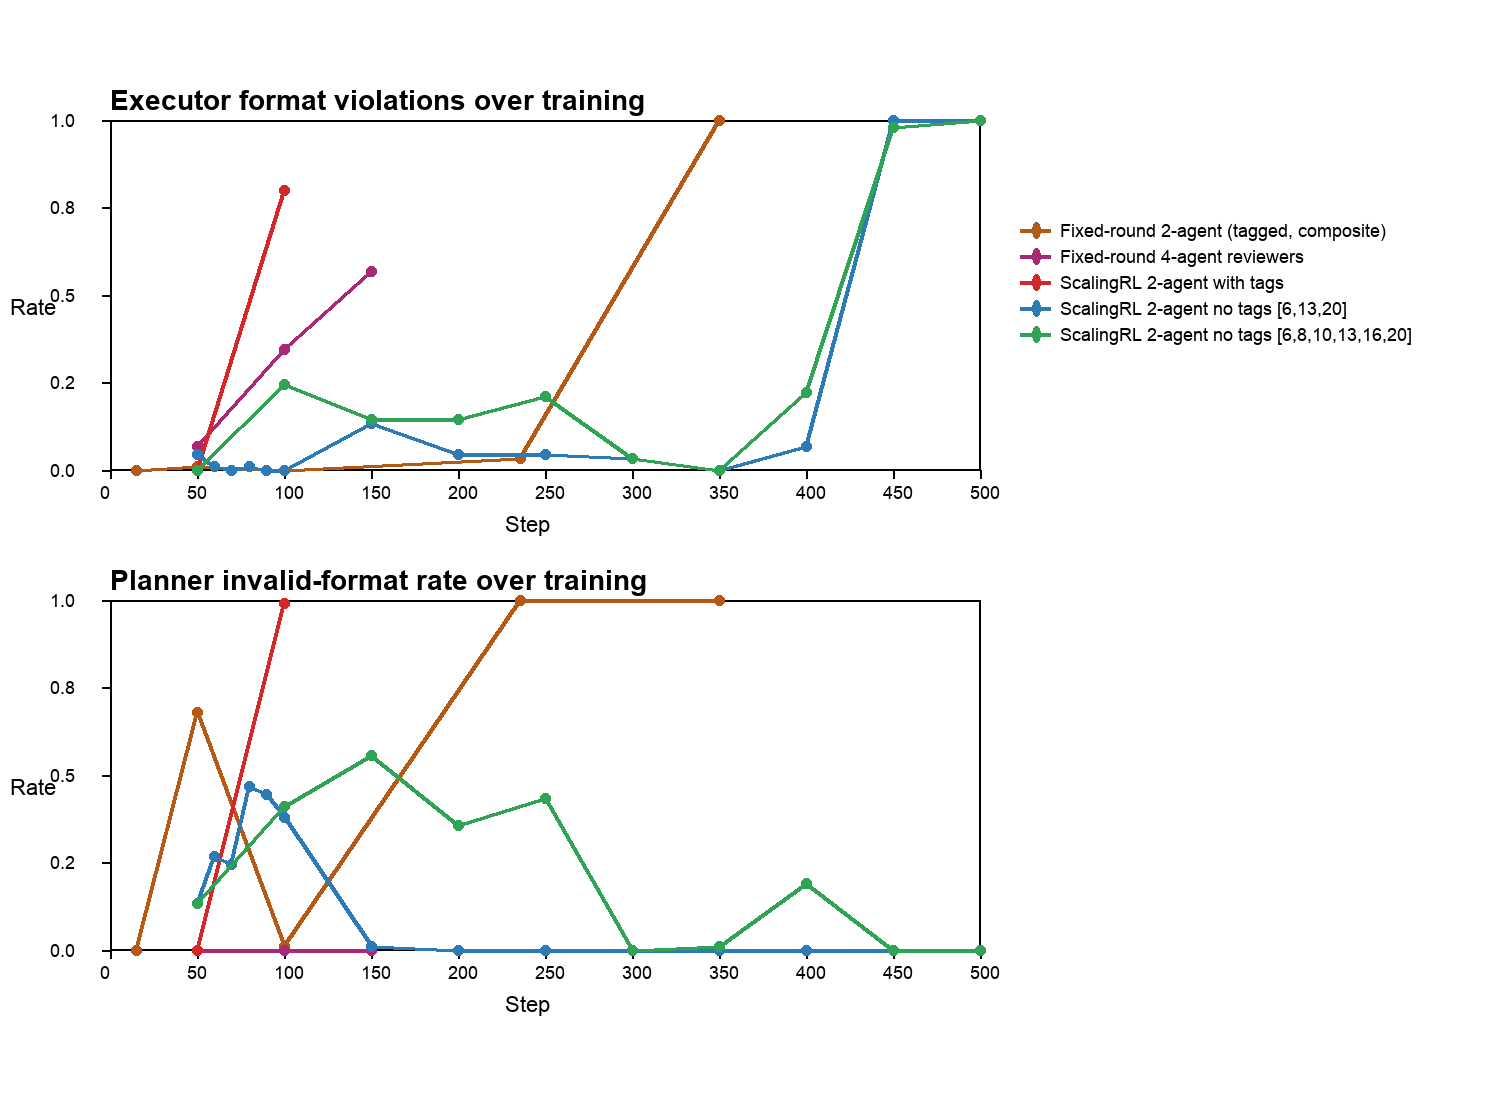
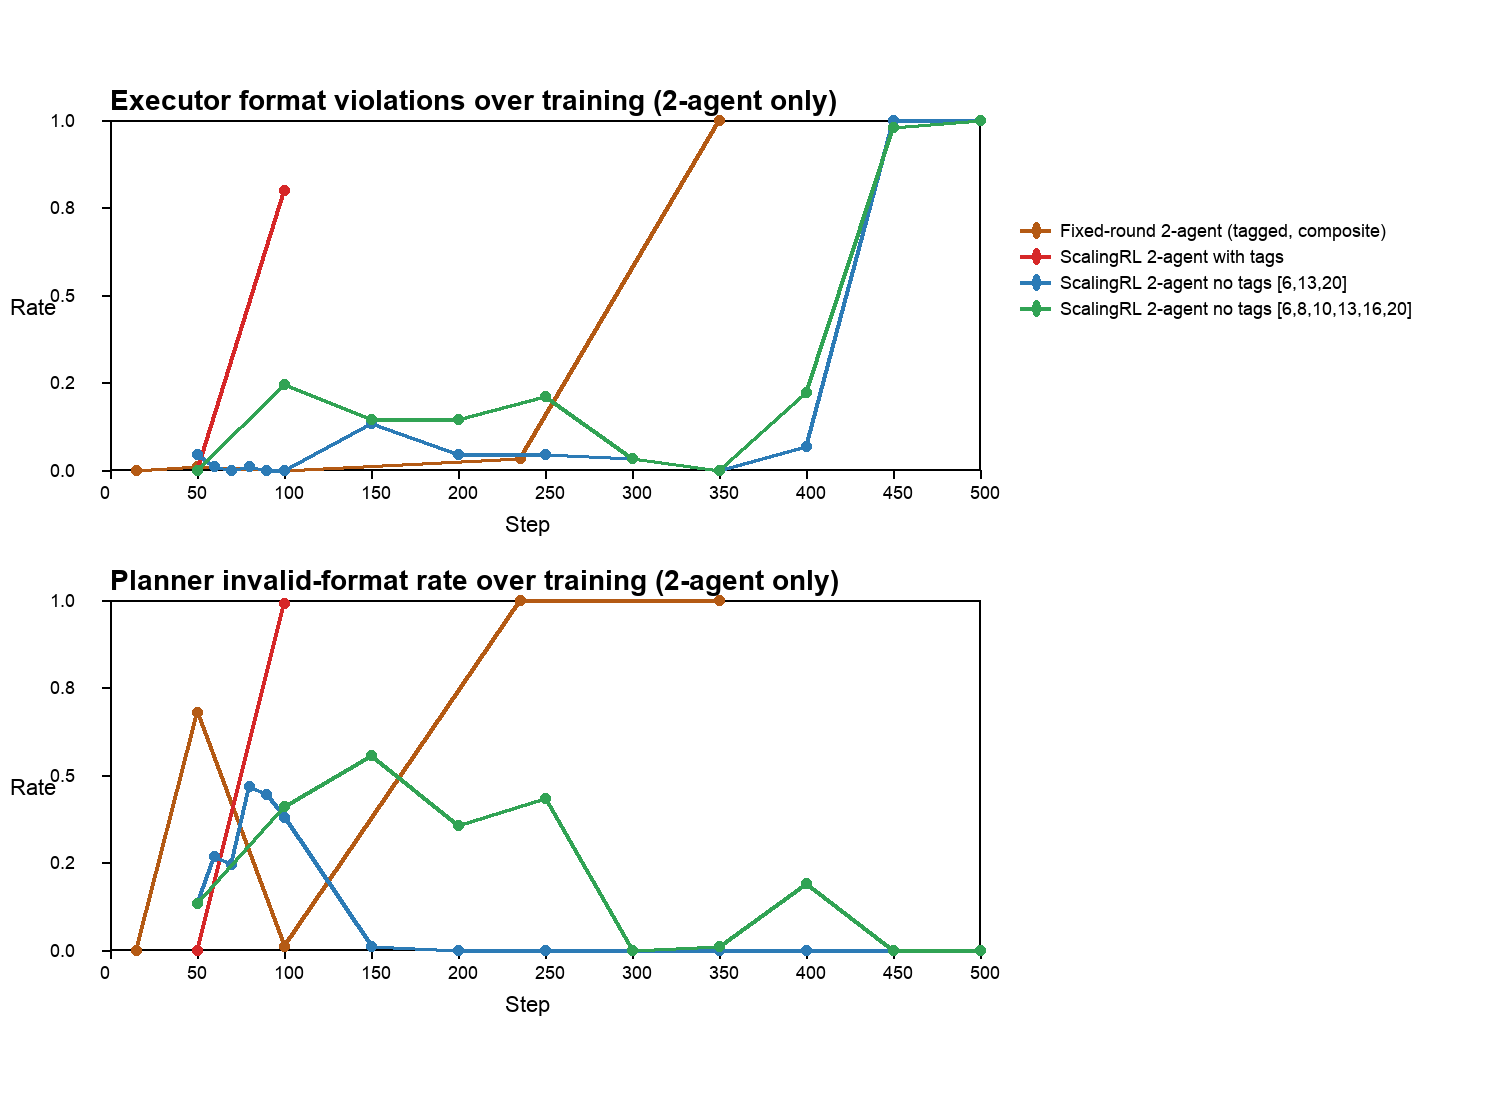
updated plots to omit 4 agent training

diff --git a/reports/2026-03-30_multi_agent_collapse_paper_handoff/build_handoff_artifacts.py b/reports/2026-03-30_multi_agent_collapse_paper_handoff/build_handoff_artifacts.py
@@ -353,6 +353,13 @@ LABELS = {
     'plain_split_scaling_2agent': 'ScalingRL 2-agent no tags [6,13,20]',
     'dense_scaling_2agent': 'ScalingRL 2-agent no tags [6,8,10,13,16,20]',
 }
+TWO_AGENT_FAMILIES = [
+    'fixed_round_2agent_tagged',
+    'tagged_scaling_2agent',
+    'plain_split_scaling_2agent',
+    'dense_scaling_2agent',
+]
+MISSING_FIXED_NO_TAG_FAMILY = 'fixed_round_2agent_no_tags'
 
 try:
     FONT = ImageFont.truetype('/System/Library/Fonts/Supplemental/Arial.ttf', 22)
@@ -412,38 +419,38 @@ def draw_series(draw, pts, color, x0, y0, x1, y1, ymin, ymax, width=4):
     for x, y, s, v in mapped:
         draw.ellipse((x-5, y-5, x+5, y+5), fill=color)
 
-# Figure 1: Pass@1 primary comparison
+# Figure 1: Pass@1 primary comparison (2-agent only)
 img = Image.new('RGB', (1500, 900), 'white')
 d = ImageDraw.Draw(img)
 plot = (110, 120, 980, 760)
 xt = [(scale_x(v, plot[0], plot[2]), v) for v in [0,50,100,150,200,250,300,350,400,450,500]]
 yt = [(scale_y(v, 0, 0.9, plot[1], plot[3]), f'{v:.1f}') for v in [0.0,0.2,0.4,0.6,0.8]]
-draw_axes(d, *plot, xt, yt, 'Pass@1', 'Pass@1 across multi-agent regimes', 'Baseline single-agent line included for reference')
+draw_axes(d, *plot, xt, yt, 'Pass@1', 'Pass@1 across 2-agent regimes', '4-agent reviewer runs intentionally omitted; no fixed-round 2-agent no-tag run was found locally')
 # baseline
 base_y = scale_y(single_agent_baseline['Pass@1'], 0, 0.9, plot[1], plot[3])
 d.line((plot[0], base_y, plot[2], base_y), fill=COLORS['baseline'], width=3)
 d.text((plot[2]-120, base_y-20), 'single-agent baseline', fill=COLORS['baseline'], font=SMALL)
-for fam in ['fixed_round_2agent_tagged','fixed_round_4agent_reviewers','tagged_scaling_2agent','plain_split_scaling_2agent','dense_scaling_2agent']:
+for fam in TWO_AGENT_FAMILIES:
     draw_series(d, series(fam, 'Pass@1'), COLORS[fam], *plot, 0, 0.9)
-draw_legend(d, [(LABELS[f], COLORS[f]) for f in ['fixed_round_2agent_tagged','fixed_round_4agent_reviewers','tagged_scaling_2agent','plain_split_scaling_2agent','dense_scaling_2agent']], 1020, 160)
+draw_legend(d, [(LABELS[f], COLORS[f]) for f in TWO_AGENT_FAMILIES], 1020, 160)
 img.save(FIG / 'fig_pass1_comparison.png')
 
-# Figure 2: Failure comparison, two panels
+# Figure 2: Failure comparison, two panels (2-agent only)
 img = Image.new('RGB', (1500, 1100), 'white')
 d = ImageDraw.Draw(img)
 top = (110, 120, 980, 470)
 bot = (110, 600, 980, 950)
 xt_top = [(scale_x(v, top[0], top[2]), v) for v in [0,50,100,150,200,250,300,350,400,450,500]]
 yt01_top = [(scale_y(v, 0, 1.0, top[1], top[3]), f'{v:.1f}') for v in [0,0.25,0.5,0.75,1.0]]
-draw_axes(d, *top, xt_top, yt01_top, 'Rate', 'Executor format violations over training')
-for fam in ['fixed_round_2agent_tagged','fixed_round_4agent_reviewers','tagged_scaling_2agent','plain_split_scaling_2agent','dense_scaling_2agent']:
+draw_axes(d, *top, xt_top, yt01_top, 'Rate', 'Executor format violations over training (2-agent only)')
+for fam in TWO_AGENT_FAMILIES:
     draw_series(d, series(fam, 'ExecutorNativeFormatViolations'), COLORS[fam], *top, 0, 1.0)
 xt_bot = [(scale_x(v, bot[0], bot[2]), v) for v in [0,50,100,150,200,250,300,350,400,450,500]]
 yt01_bot = [(scale_y(v, 0, 1.0, bot[1], bot[3]), f'{v:.1f}') for v in [0,0.25,0.5,0.75,1.0]]
-draw_axes(d, *bot, xt_bot, yt01_bot, 'Rate', 'Planner invalid-format rate over training')
-for fam in ['fixed_round_2agent_tagged','fixed_round_4agent_reviewers','tagged_scaling_2agent','plain_split_scaling_2agent','dense_scaling_2agent']:
+draw_axes(d, *bot, xt_bot, yt01_bot, 'Rate', 'Planner invalid-format rate over training (2-agent only)')
+for fam in TWO_AGENT_FAMILIES:
     draw_series(d, series(fam, 'PlannerInvalidFormatRate'), COLORS[fam], *bot, 0, 1.0)
-draw_legend(d, [(LABELS[f], COLORS[f]) for f in ['fixed_round_2agent_tagged','fixed_round_4agent_reviewers','tagged_scaling_2agent','plain_split_scaling_2agent','dense_scaling_2agent']], 1020, 220)
+draw_legend(d, [(LABELS[f], COLORS[f]) for f in TWO_AGENT_FAMILIES], 1020, 220)
 img.save(FIG / 'fig_failure_comparison.png')
 
 # Figure 3: Dense500 detail
@@ -475,7 +482,7 @@ d = ImageDraw.Draw(img)
 plot = (110, 120, 980, 760)
 xt = [(scale_x(v, plot[0], plot[2]), v) for v in [0,50,100,150,200,250,300,350,400,450,500]]
 yt = [(scale_y(v, 0, 1.0, plot[1], plot[3]), f'{v:.1f}') for v in [0,0.25,0.5,0.75,1.0]]
-draw_axes(d, *plot, xt, yt, 'Pass@1', 'Tagged prompts vs no-tag prompts under ScalingRL')
+draw_axes(d, *plot, xt, yt, 'Pass@1', 'Tagged prompts vs no-tag prompts under ScalingRL (2-agent only)')
 for fam in ['tagged_scaling_2agent','plain_split_scaling_2agent','dense_scaling_2agent']:
     draw_series(d, series(fam, 'Pass@1'), COLORS[fam], *plot, 0, 1.0)
 draw_legend(d, [(LABELS[f], COLORS[f]) for f in ['tagged_scaling_2agent','plain_split_scaling_2agent','dense_scaling_2agent']], 1020, 180)
@@ -518,16 +525,14 @@ with main_md.open('w') as f:
     f.write(f'- Existing plain-split ScalingRL report: `{PLAIN100_DIR / "DEEP_RESEARCH_ANALYSIS.md"}`\n')
     f.write(f'- Existing dense-curriculum report: `{DENSE500_DIR / "SUMMARY.md"}`\n\n')
     f.write('## Experimental Regimes To Emphasize\n')
-    f.write('1. **Tagged planner/executor prompts**\n')
+    f.write('1. **2-agent tagged prompts**\n')
     f.write('   - Fixed-round 2-agent tagged runs (historical composite evidence).\n')
-    f.write('   - Fixed-round 4-agent reviewer runs.\n')
     f.write('   - ScalingRL 2-agent tagged run (`Mavino Collapse`).\n')
-    f.write('2. **No ScalingRL (fixed-round) multi-agent training**\n')
-    f.write('   - 2-agent tagged composite checkpoints.\n')
-    f.write('   - 4-agent reviewer fixed-round run.\n')
-    f.write('3. **ScalingRL without tags**\n')
+    f.write('2. **2-agent no-tag ScalingRL**\n')
     f.write('   - Plain-split retry v2 with `[6,13,20]`.\n')
-    f.write('   - Dense-curriculum run with `[6,8,10,13,16,20]`.\n\n')
+    f.write('   - Dense-curriculum run with `[6,8,10,13,16,20]`.\n')
+    f.write('3. **Missing ablation**\n')
+    f.write('   - A fixed-round 2-agent no-tag run is **not present** in the local archived reports and therefore cannot be plotted yet.\n\n')
     f.write('## Figures\n')
     f.write(f'![Pass@1 comparison](figures/fig_pass1_comparison.png)\n\n')
     f.write(f'![Failure comparison](figures/fig_failure_comparison.png)\n\n')
@@ -535,10 +540,14 @@ with main_md.open('w') as f:
     f.write(f'![Tagged vs no-tags scaling](figures/fig_tagged_vs_notags_scaling.png)\n\n')
     f.write('## High-Level Quantitative Summary\n')
     f.write(f'- Single-agent baseline: `Avg@1={single_agent_baseline["Avg@1"]:.6f}`, `Pass@1={single_agent_baseline["Pass@1"]:.6f}`.\n')
-    for fam in ['fixed_round_2agent_tagged','fixed_round_4agent_reviewers','tagged_scaling_2agent','plain_split_scaling_2agent','dense_scaling_2agent']:
+    for fam in TWO_AGENT_FAMILIES:
         s = family_summary[fam]
         f.write(f'- {LABELS[fam]}: best checkpoint `step {s["best"]["step"]}` with `Pass@1={s["best"]["Pass@1"]:.6f}`, final checkpoint `step {s["final"]["step"]}` with `Pass@1={s["final"]["Pass@1"]:.6f}`.\n')
     f.write('\n')
+    f.write('## Scope Note\n')
+    f.write('- The figures in this handoff were updated to exclude 4-agent reviewer runs.\n')
+    f.write('- I did **not** find a confirmed fixed-round 2-agent no-tag training run in the local report archive.\n')
+    f.write('- The current 2-agent comparison therefore uses: fixed-round tagged, tagged ScalingRL, and no-tag ScalingRL.\n\n')
     f.write('## Supported Claims\n')
     f.write('1. **Prompt tags created a distinct recursive scaffold-copying collapse mode.**\n')
     f.write(f'   - Evidence: `{MAVINO_DIR / "MAVINO_COLLAPSE_REPORT.md"}` and `{MAVINO_DIR / "representative_trace_examples.md"}`.\n')
@@ -554,7 +563,7 @@ with main_md.open('w') as f:
     f.write('   - At `450-500`, planner metrics remain formally clean while executor format violations approach `1.0`.\n\n')
     f.write('## Important Caveats\n')
     f.write('- The fixed-round 2-agent curve is a **composite evidence pool**, not a single uninterrupted run. Use it to describe the historical debugging trajectory, not as a single clean learning curve.\n')
-    f.write('- The 4-agent reviewer runs change both topology and validation/retry structure, so they are useful for mechanism comparison but not a pure ablation against 2-agent runs.\n')
+    f.write('- A fixed-round 2-agent no-tag ablation is missing from the local archive, so the current no-tag evidence is entirely ScalingRL-based.\n')
     f.write('- The strongest paper claims should therefore focus on **failure modes and stability**, not on a single winner number.\n\n')
     f.write('## Failure Taxonomy\n')
     f.write('### A. Tagged prompt scaffold collapse\n')

diff --git a/reports/2026-03-30_multi_agent_collapse_paper_handoff/PAPER_HANDOFF_DEEP_RESEARCH.md b/reports/2026-03-30_multi_agent_collapse_paper_handoff/PAPER_HANDOFF_DEEP_RESEARCH.md
@@ -21,16 +21,14 @@ Generated on 2026-03-30. This packet is designed so ChatGPT Deep Research can in
 - Existing dense-curriculum report: `/Users/mavinomichael/PycharmProjects/AgentGym-RL/reports/2026-03-23_dense500_eval_and_traces/SUMMARY.md`
 
 ## Experimental Regimes To Emphasize
-1. **Tagged planner/executor prompts**
+1. **2-agent tagged prompts**
    - Fixed-round 2-agent tagged runs (historical composite evidence).
-   - Fixed-round 4-agent reviewer runs.
    - ScalingRL 2-agent tagged run (`Mavino Collapse`).
-2. **No ScalingRL (fixed-round) multi-agent training**
-   - 2-agent tagged composite checkpoints.
-   - 4-agent reviewer fixed-round run.
-3. **ScalingRL without tags**
+2. **2-agent no-tag ScalingRL**
    - Plain-split retry v2 with `[6,13,20]`.
    - Dense-curriculum run with `[6,8,10,13,16,20]`.
+3. **Missing ablation**
+   - A fixed-round 2-agent no-tag run is **not present** in the local archived reports and therefore cannot be plotted yet.
 
 ## Figures
 ![Pass@1 comparison](figures/fig_pass1_comparison.png)
@@ -44,10 +42,14 @@ Generated on 2026-03-30. This packet is designed so ChatGPT Deep Research can in
 ## High-Level Quantitative Summary
 - Single-agent baseline: `Avg@1=0.672827`, `Pass@1=0.733333`.
 - Fixed-round 2-agent (tagged, composite): best checkpoint `step 15` with `Pass@1=0.766667`, final checkpoint `step 350` with `Pass@1=0.000000`.
-- Fixed-round 4-agent reviewers: best checkpoint `step 50` with `Pass@1=0.777778`, final checkpoint `step 150` with `Pass@1=0.144444`.
 - ScalingRL 2-agent with tags: best checkpoint `step 50` with `Pass@1=0.800000`, final checkpoint `step 100` with `Pass@1=0.033333`.
 - ScalingRL 2-agent no tags [6,13,20]: best checkpoint `step 200` with `Pass@1=0.811111`, final checkpoint `step 500` with `Pass@1=0.000000`.
 - ScalingRL 2-agent no tags [6,8,10,13,16,20]: best checkpoint `step 300` with `Pass@1=0.822222`, final checkpoint `step 500` with `Pass@1=0.000000`.
+
+## Scope Note
+- The figures in this handoff were updated to exclude 4-agent reviewer runs.
+- I did **not** find a confirmed fixed-round 2-agent no-tag training run in the local report archive.
+- The current 2-agent comparison therefore uses: fixed-round tagged, tagged ScalingRL, and no-tag ScalingRL.
 
 ## Supported Claims
 1. **Prompt tags created a distinct recursive scaffold-copying collapse mode.**
@@ -65,7 +67,7 @@ Generated on 2026-03-30. This packet is designed so ChatGPT Deep Research can in
 
 ## Important Caveats
 - The fixed-round 2-agent curve is a **composite evidence pool**, not a single uninterrupted run. Use it to describe the historical debugging trajectory, not as a single clean learning curve.
-- The 4-agent reviewer runs change both topology and validation/retry structure, so they are useful for mechanism comparison but not a pure ablation against 2-agent runs.
+- A fixed-round 2-agent no-tag ablation is missing from the local archive, so the current no-tag evidence is entirely ScalingRL-based.
 - The strongest paper claims should therefore focus on **failure modes and stability**, not on a single winner number.
 
 ## Failure Taxonomy
